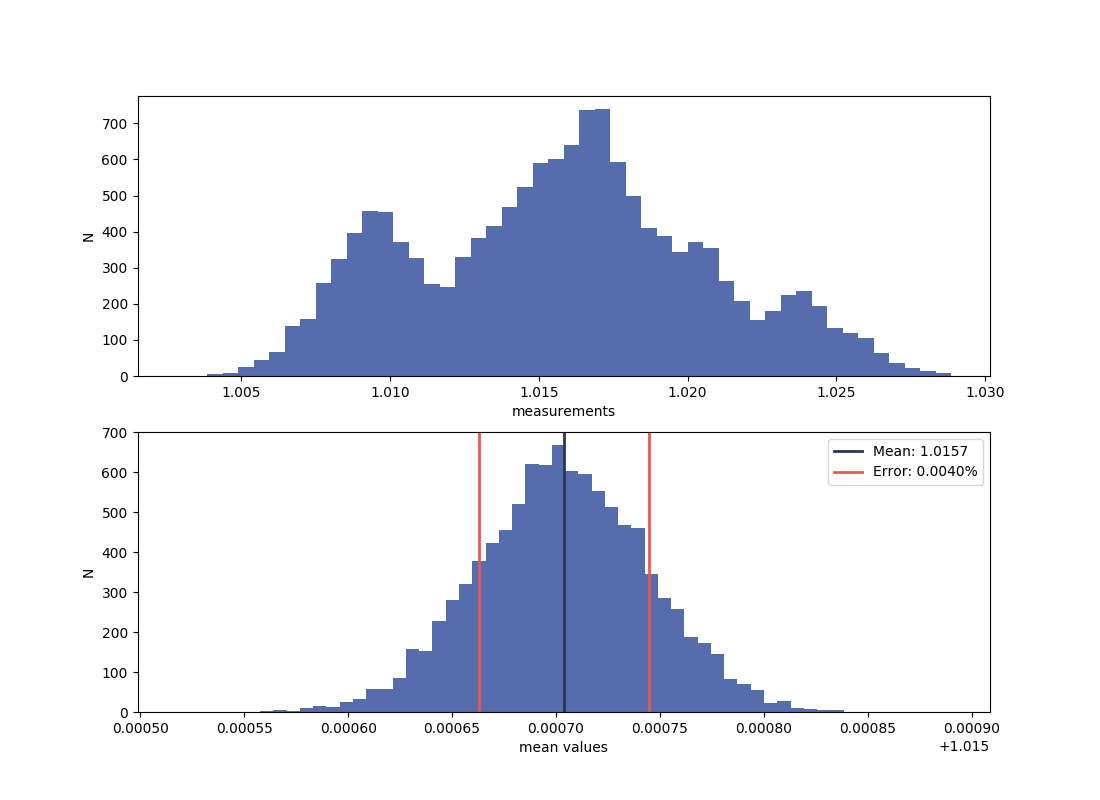
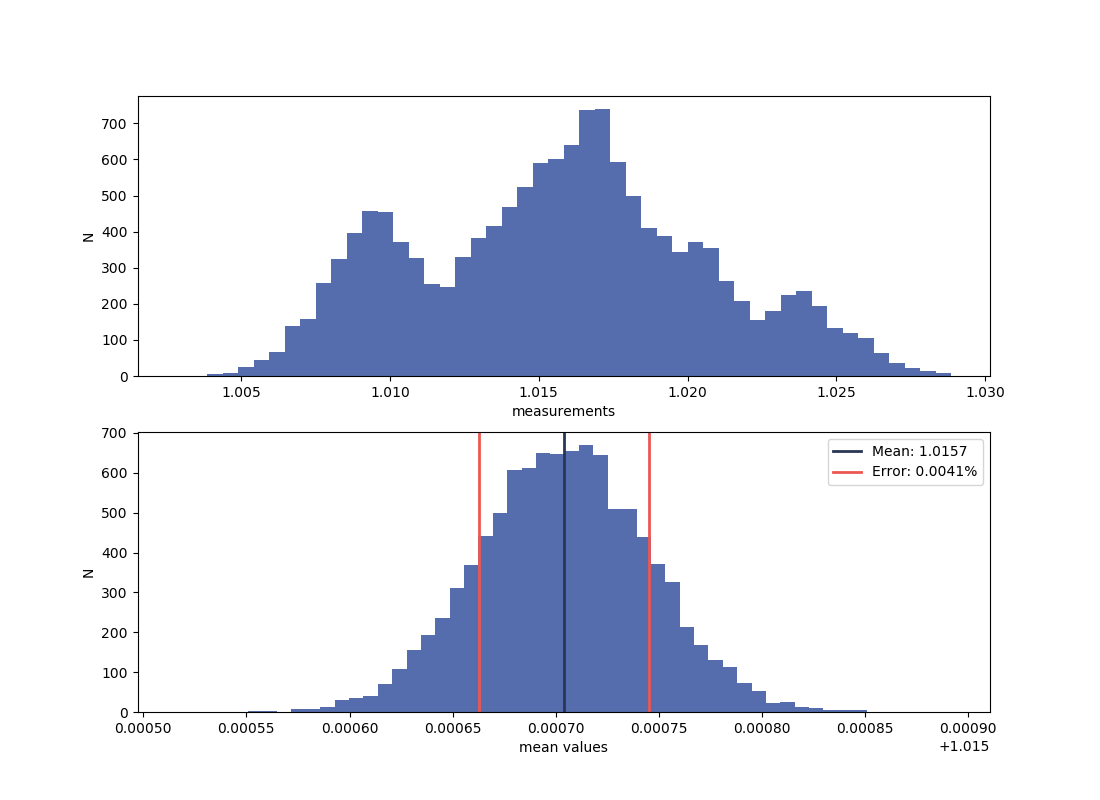
done task

diff --git a/Task 8/solution.py b/Task 8/solution.py
@@ -1,13 +1,19 @@
-
-def bootstrap_this(data):
-
-
-	# YOUR CODE HERE
+import numpy as np
 
 
-	# return:
-	#	mean value (float)
-	#	error estimate (float)
-	#	means of the each sample drawn (array of floats)
-
-	return value, error, means
+def bootstrap_this(data, n=10000, average_statistic=np.mean, error_statistic=np.std):
+    """
+    Bootstrap a 1D dataset using a `average_statistic` [np.mean as the default]
+    This will pick `len(data)` data-points from `data` at random (with replacement) and compute the `average_statistic`.
+    This process repeats `n` times until a bootstrap_distribution of `average_statistic`s is formed.
+    average_statistic and error_statistic must accept the keyword argument `axis`.
+    
+    Returns 
+        float:          average_statistic(bootstrap_distribution)
+        float:          error_statistic(bootstrap_distribution)
+        array[float]:   bootstrap_distribution
+    """
+    assert data.ndim == 1
+    choice = np.random.choice(data, (len(data), n))
+    bootstrap_distribution = average_statistic(choice, axis=0)
+    return average_statistic(bootstrap_distribution), error_statistic(bootstrap_distribution), bootstrap_distribution
